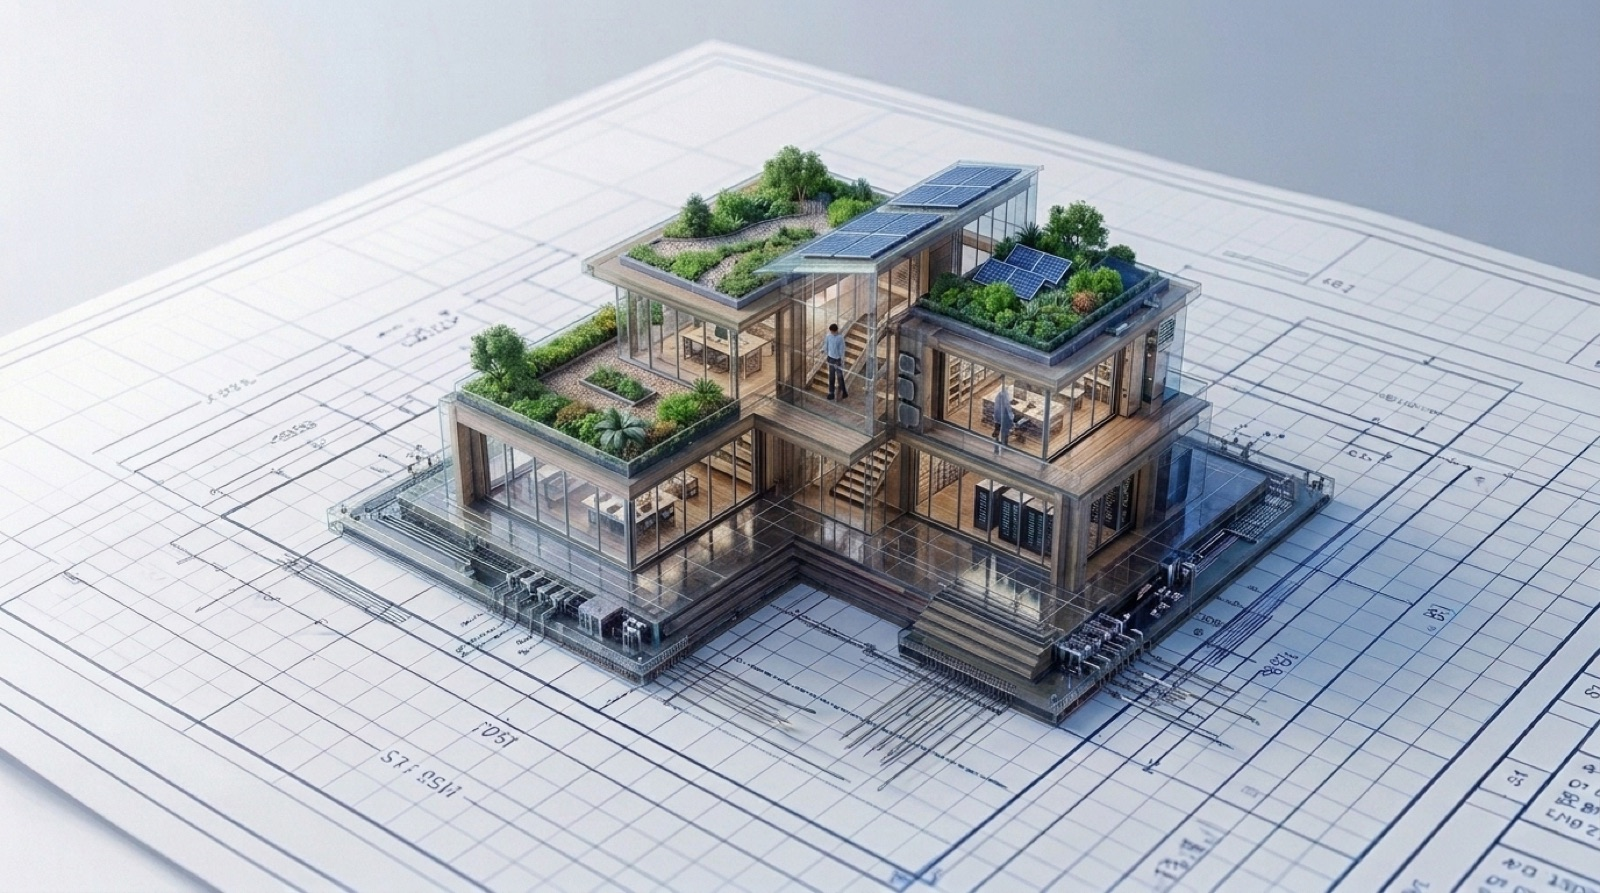
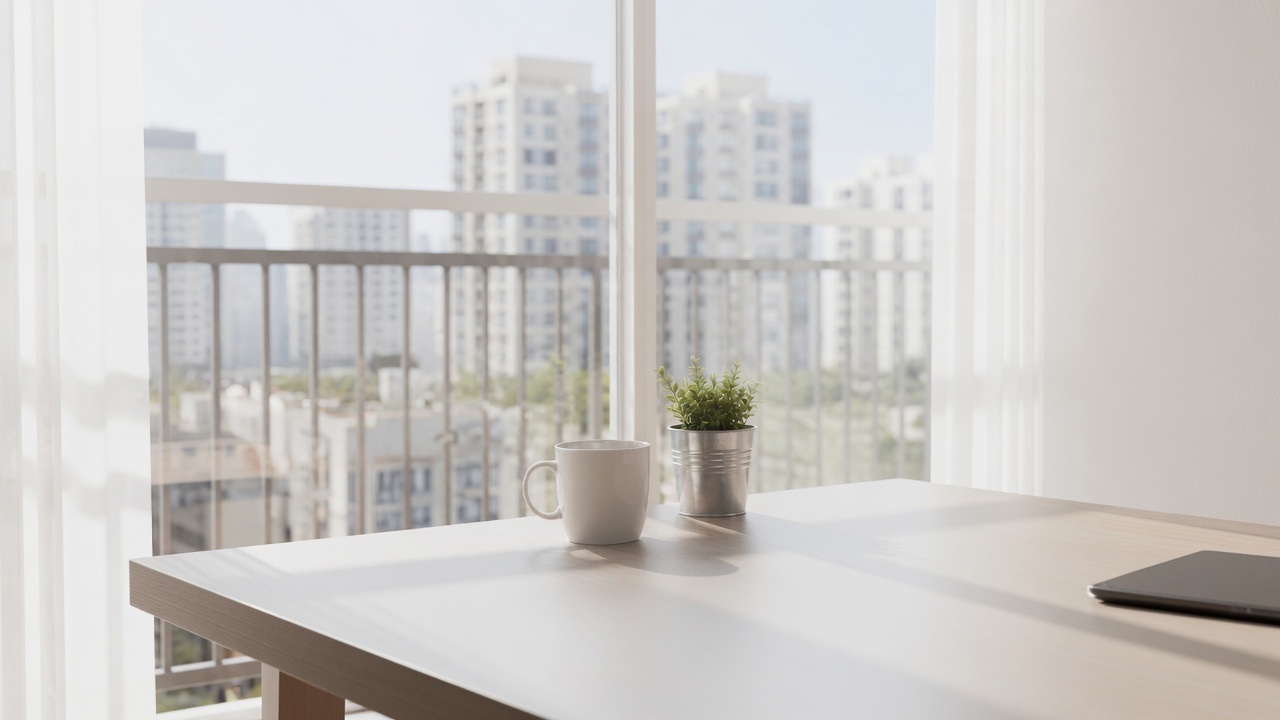
랜딩 히어로 풀스크린 리디자인: 창가 아파트 이미지 전면 적용
- 첫 화면 전체(100vw × 뷰포트 높이)에 배경 이미지, 좌→우 화이트 그라데이션 오버레이
- 좌측에 헤드라인·CTA·신뢰 문구, 우측 여백에 플로팅 기능 카드 3종
- '아래로 둘러보기' 스크롤 유도, 모바일은 하단 그라데이션 + 중앙 정렬 대응

diff --git a/index.html b/index.html
@@ -325,33 +325,45 @@
   }
 
   /* ===== Landing ===== */
-  .landing{max-width:1180px;margin:0 auto;text-align:center;padding:40px 0 20px}
-  .hero-grid{display:grid;grid-template-columns:1.02fr .98fr;gap:56px;align-items:center;text-align:left}
-  .hero-copy .lead{margin:18px 0 28px;max-width:530px}
-  .hero-copy .cta-row{justify-content:flex-start}
-  .hero-visual{position:relative}
-  .hero-visual::before{content:"";position:absolute;inset:-12%;background:radial-gradient(closest-side, rgba(37,99,235,.16), transparent 72%);z-index:0}
-  .hero-visual img{position:relative;width:100%;border-radius:22px;box-shadow:0 30px 70px -18px rgba(15,34,71,.38);display:block;z-index:1}
+  .landing{max-width:1180px;margin:0 auto;text-align:center;padding:44px 0 20px}
+  body{overflow-x:hidden}
+  .hero-full{position:relative;width:100vw;margin:-28px 0 0 calc(50% - 50vw);min-height:calc(100vh - 60px);background:url('assets/hero.jpg') center/cover no-repeat;display:flex;align-items:center}
+  .hero-full::before{content:"";position:absolute;inset:0;background:linear-gradient(100deg, rgba(255,255,255,.97) 0%, rgba(255,255,255,.90) 30%, rgba(255,255,255,.48) 58%, rgba(255,255,255,.06) 85%)}
+  .hero-inner{position:relative;z-index:2;max-width:1180px;width:100%;margin:0 auto;padding:64px 44px;text-align:left}
+  .hero-inner .badge-lg{display:inline-flex;align-items:center;gap:6px;background:#fff;color:var(--blue);font-size:13px;font-weight:700;padding:8px 17px;border-radius:99px;margin-bottom:24px;box-shadow:0 4px 16px rgba(15,34,71,.10)}
+  .hero-inner h1{font-size:clamp(30px,4.6vw,52px);line-height:1.22;letter-spacing:-.03em;color:var(--navy)}
+  .hero-inner h1 em{font-style:normal;color:var(--blue)}
+  .hero-inner .lead{font-size:clamp(15px,1.9vw,18px);color:#3d4a61;margin:20px 0 32px;max-width:520px;line-height:1.75;word-break:keep-all}
+  .hero-inner .cta-row{display:flex;gap:11px;flex-wrap:wrap;margin-bottom:16px}
+  .hero-inner .cta-row .btn{padding:15px 30px;font-size:16px;border-radius:12px}
+  .hero-inner .cta-row .btn-primary{box-shadow:0 10px 28px rgba(37,99,235,.35)}
+  .hero-inner .trust{font-size:12.5px;color:#5d6b83}
   .hero-chip{position:absolute;z-index:2;display:flex;align-items:center;gap:10px;background:rgba(255,255,255,.93);backdrop-filter:blur(10px);border:1px solid rgba(255,255,255,.75);border-radius:14px;padding:11px 15px;box-shadow:0 12px 32px rgba(15,34,71,.20);font-size:13px;white-space:nowrap;animation:chipFloat 5.5s ease-in-out infinite}
   .hero-chip b{display:block;font-size:13px;line-height:1.35}
   .hero-chip small{display:block;color:var(--muted);font-size:11.5px;font-weight:500}
   .hero-chip .hc-num{width:42px;height:42px;border-radius:50%;background:var(--green-bg);color:var(--green);font-weight:800;font-size:15px;display:flex;align-items:center;justify-content:center;border:2.5px solid #35c169;flex-shrink:0}
-  .hero-chip.c1{top:-20px;left:-28px}
-  .hero-chip.c2{bottom:24%;right:-22px;animation-delay:1.4s}
-  .hero-chip.c3{bottom:-20px;left:7%;animation-delay:2.8s}
+  .hero-chip.c1{top:15%;right:7%}
+  .hero-chip.c2{top:46%;right:17%;animation-delay:1.4s}
+  .hero-chip.c3{bottom:13%;right:8%;animation-delay:2.8s}
+  .hero-scroll{position:absolute;left:50%;bottom:16px;transform:translateX(-50%);z-index:2;color:#5d6b83;font-size:12px;font-weight:700;display:flex;flex-direction:column;align-items:center;line-height:1.4;animation:chipFloat 3.2s ease-in-out infinite;cursor:pointer}
   @keyframes chipFloat{0%,100%{transform:translateY(0)}50%{transform:translateY(-9px)}}
+  .hero-scroll{animation-name:scrollBob}
+  @keyframes scrollBob{0%,100%{transform:translate(-50%,0)}50%{transform:translate(-50%,-7px)}}
   .feature-card{transition:transform .2s, box-shadow .2s}
   .feature-card:hover{transform:translateY(-4px);box-shadow:0 16px 36px rgba(15,34,71,.10)}
   @media(max-width:900px){
-    .hero-grid{grid-template-columns:1fr;gap:38px;text-align:center}
-    .hero-copy .lead{margin:16px auto 24px}
-    .hero-copy .cta-row{justify-content:center}
+    .hero-full{margin-top:-16px;min-height:calc(100vh - 140px);align-items:flex-end}
+    .hero-full::before{background:linear-gradient(180deg, rgba(255,255,255,.25) 0%, rgba(255,255,255,.68) 42%, rgba(255,255,255,.97) 75%)}
+    .hero-inner{text-align:center;padding:46px 20px 58px}
+    .hero-inner .lead{margin:14px auto 24px}
+    .hero-inner .cta-row{justify-content:center}
+    .hero-inner .cta-row .btn{padding:13px 22px;font-size:15px}
     .hero-chip{padding:9px 12px;font-size:12px}
     .hero-chip small{display:none}
     .hero-chip .hc-num{width:34px;height:34px;font-size:13px}
-    .hero-chip.c1{top:-14px;left:-4px}
-    .hero-chip.c2{right:-4px;bottom:20%}
-    .hero-chip.c3{bottom:-14px;left:4%}
+    .hero-chip.c1{top:7%;right:5%}
+    .hero-chip.c2,.hero-chip.c3{display:none}
+    .hero-scroll{display:none}
   }
   .landing .badge-lg{display:inline-flex;align-items:center;gap:6px;background:var(--blue-light);color:var(--blue);font-size:13px;font-weight:700;padding:7px 16px;border-radius:99px;margin-bottom:22px}
   .landing h1{font-size:clamp(28px,5vw,44px);line-height:1.25;letter-spacing:-.03em;color:var(--navy)}
@@ -446,25 +458,23 @@
 <main>
   <!-- ============ LANDING ============ -->
   <section class="view" id="view-landing">
-    <div class="landing">
-      <div class="hero-grid">
-        <div class="hero-copy">
-          <span class="badge-lg">🛡️ 사회초년생을 위한 AI 부동산 계약 비서</span>
-          <h1>전세사기, 몰라서<br><em>당하지 않게</em></h1>
-          <p class="lead">등기부등본이 뭔지 몰라도 괜찮아요. 계약 전 위험 진단부터 전입신고·확정일자까지, 첫 계약의 모든 순간을 집지킴이 옆에서 챙겨드려요.</p>
-          <div class="cta-row">
-            <button class="btn btn-primary" onclick="startService()">무료로 시작하기 →</button>
-            <button class="btn btn-ghost" onclick="startService(); openOnboarding()">1분 맞춤 설정</button>
-          </div>
-          <p class="trust">회원가입 없음 · 입력 정보는 내 브라우저에만 저장 🔒 · <span id="verLanding"></span></p>
+    <div class="hero-full">
+      <div class="hero-inner">
+        <span class="badge-lg">🛡️ 사회초년생을 위한 AI 부동산 계약 비서</span>
+        <h1>전세사기, 몰라서<br><em>당하지 않게</em></h1>
+        <p class="lead">등기부등본이 뭔지 몰라도 괜찮아요. 계약 전 위험 진단부터 전입신고·확정일자까지, 첫 계약의 모든 순간을 집지킴이 옆에서 챙겨드려요.</p>
+        <div class="cta-row">
+          <button class="btn btn-primary" onclick="startService()">무료로 시작하기 →</button>
+          <button class="btn btn-ghost" onclick="startService(); openOnboarding()">1분 맞춤 설정</button>
         </div>
-        <div class="hero-visual">
-          <img src="assets/hero.jpg" alt="설계 도면 위에 세워진 안전한 집 — 집지킴이 계약의 설계도를 그려드려요">
-          <div class="hero-chip c1"><span class="hc-num">92</span><span><b>종합 안전도 — 안전</b><small>등기부등본 AI 진단</small></span></div>
-          <div class="hero-chip c2">✍️ <span><b>근저당 말소 특약 생성</b><small>복사해서 계약서에 바로</small></span></div>
-          <div class="hero-chip c3">⏰ <span><b>D-9 · 잔금일 등기부 재열람</b><small>놓치지 않게 챙겨드려요</small></span></div>
-        </div>
+        <p class="trust">회원가입 없음 · 입력 정보는 내 브라우저에만 저장 🔒 · <span id="verLanding"></span></p>
       </div>
+      <div class="hero-chip c1"><span class="hc-num">92</span><span><b>종합 안전도 — 안전</b><small>등기부등본 AI 진단</small></span></div>
+      <div class="hero-chip c2">✍️ <span><b>근저당 말소 특약 생성</b><small>복사해서 계약서에 바로</small></span></div>
+      <div class="hero-chip c3">⏰ <span><b>D-9 · 잔금일 등기부 재열람</b><small>놓치지 않게 챙겨드려요</small></span></div>
+      <div class="hero-scroll" onclick="document.querySelector('.feature-grid').scrollIntoView({behavior:'smooth'})">아래로 둘러보기<span>↓</span></div>
+    </div>
+    <div class="landing">
       <div class="feature-grid">
         <div class="card feature-card"><div class="fic">🔍</div><b>등기부등본 AI 진단</b><p>PDF를 끌어다 놓거나 숫자만 입력하면 깡통전세·근저당 위험을 점수로 알려주고, 계약서에 넣을 특약 문구까지 만들어줘요.</p></div>
         <div class="card feature-card"><div class="fic">✅</div><b>계약 전·중·후 체크리스트</b><p>잔금일 기준 D-day에 맞춰 등기부 재열람, 전입신고, 확정일자, 보증보험까지 놓치지 않게 순서대로 알려줘요.</p></div>
@@ -791,7 +801,7 @@
 /* =========================================================
    집지킴 — AI 부동산 계약 비서 (client-side prototype)
    ========================================================= */
-const APP_VERSION = 'v1.8 (2026-07-06)';
+const APP_VERSION = 'v1.9 (2026-07-06)';
 const LS_KEY = 'jibjikim_v1';
 let state = null;
 const GUEST_USER = { name:null, age:null, region:null, type:null, deposit:null, rent:0, income:null, stage:'0', moveDate:null, address:null };